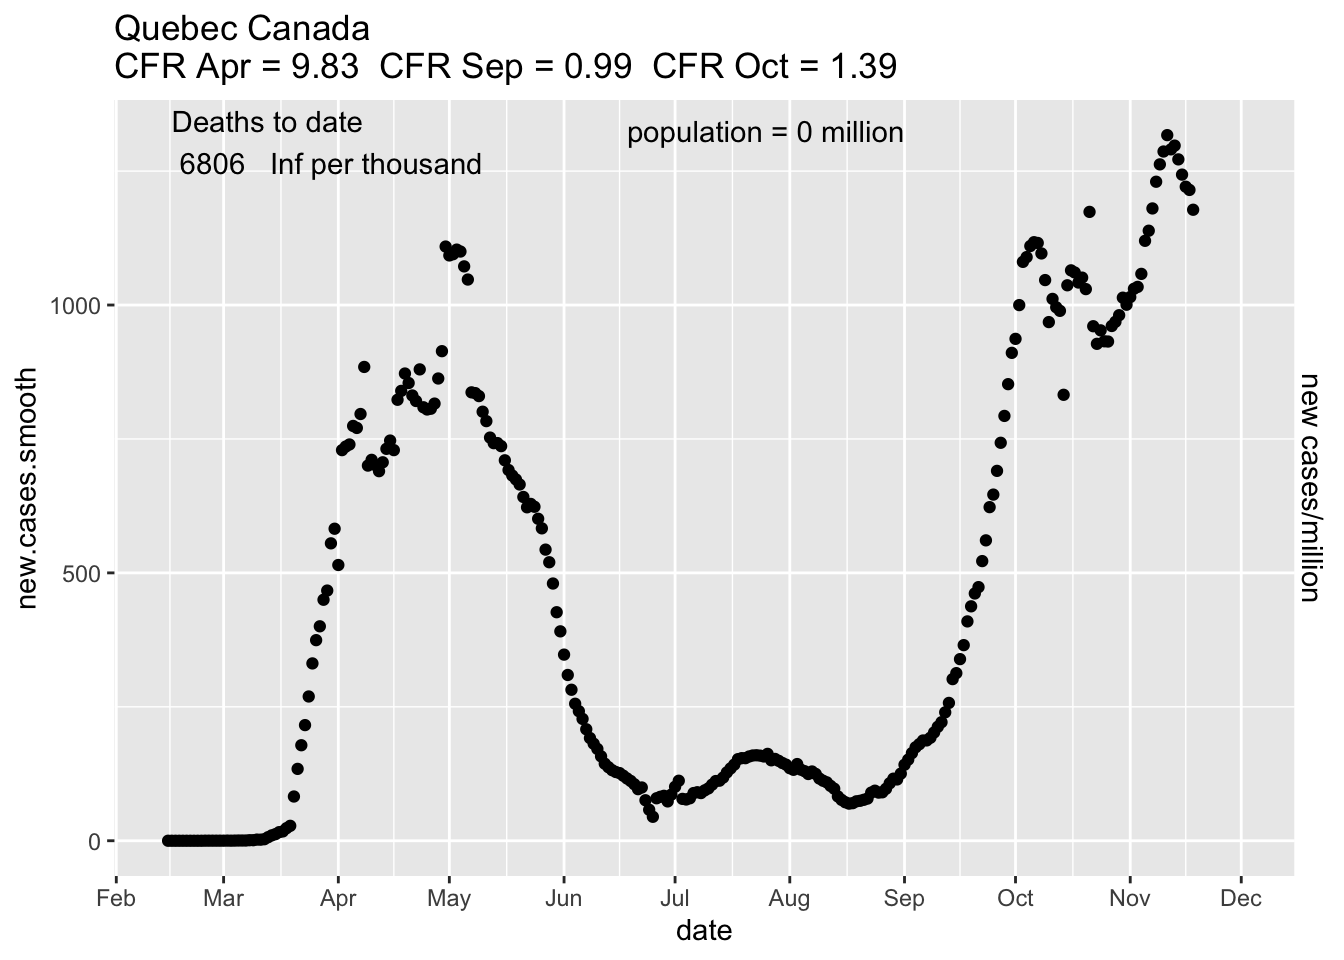
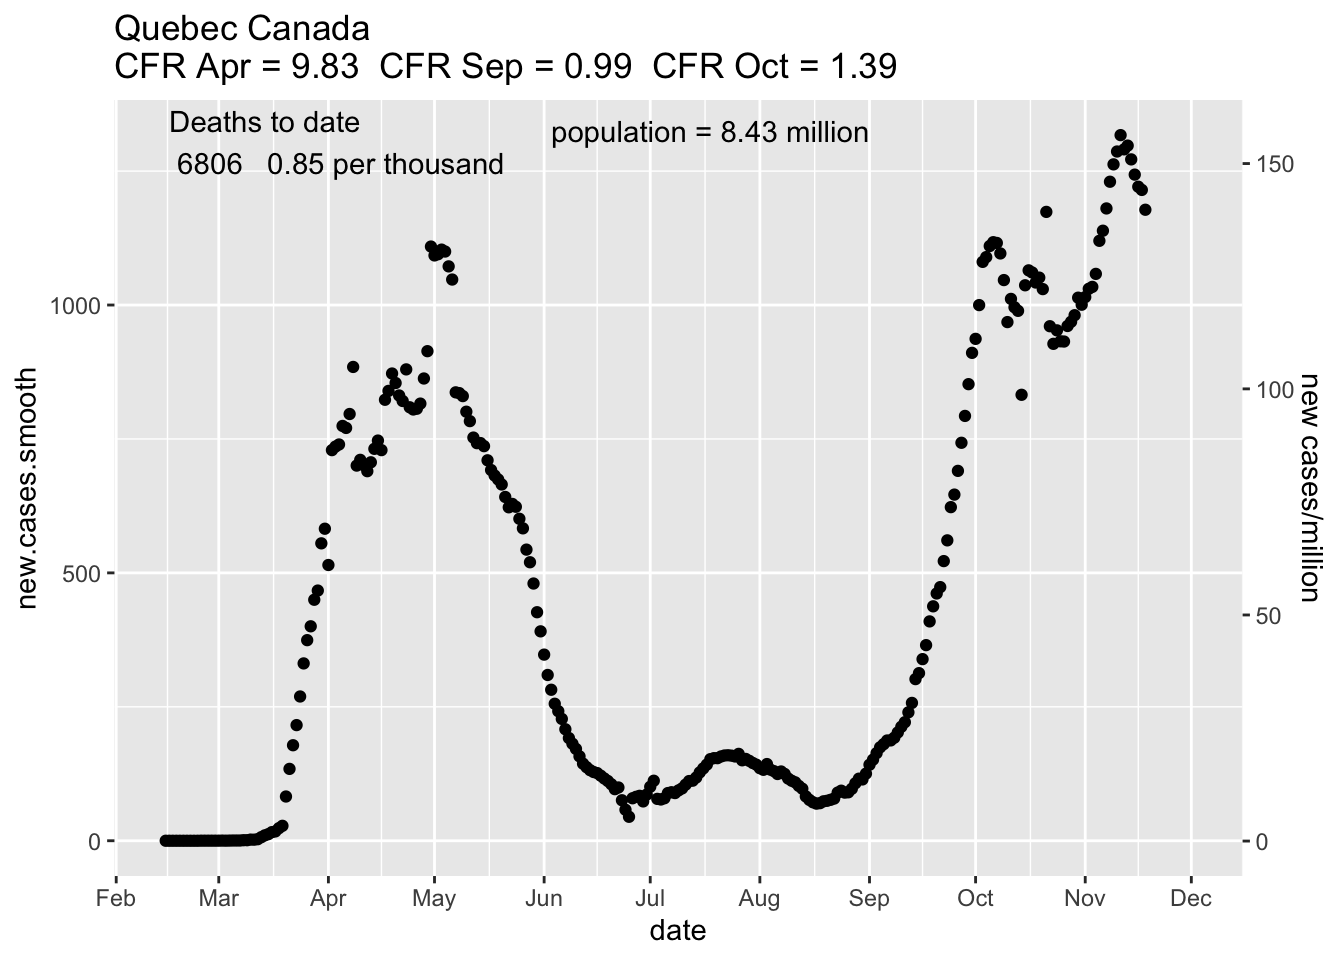
fix canada province pops

diff --git a/docs/data.html b/docs/data.html
@@ -338,20 +338,13 @@ italy
 world</code></pre>
 <p>Here is an example from <code>states</code>:</p>
 <pre class="r"><code>head(states)</code></pre>
-<pre><code>##             date region positive
-## 14572 2020-03-06     AK       NA
-## 14521 2020-03-07     AK       NA
-## 14470 2020-03-08     AK       NA
-## 14419 2020-03-09     AK       NA
-## 14368 2020-03-10     AK       NA
-## 14317 2020-03-11     AK       NA
-##       negative hospitalized death
-## 14572        8           NA     0
-## 14521       12           NA     0
-## 14470       14           NA     0
-## 14419       23            1     0
-## 14368       23            1     0
-## 14317       46            1     0
+<pre><code>##             date region positive negative hospitalized death
+## 14572 2020-03-06     AK       NA        8           NA     0
+## 14521 2020-03-07     AK       NA       12           NA     0
+## 14470 2020-03-08     AK       NA       14           NA     0
+## 14419 2020-03-09     AK       NA       23            1     0
+## 14368 2020-03-10     AK       NA       23            1     0
+## 14317 2020-03-11     AK       NA       46            1     0
 ##       total.tests
 ## 14572           8
 ## 14521          12

diff --git a/docs/Forecasts.html b/docs/Forecasts.html
@@ -326,7 +326,7 @@ $(document).ready(function () {
 
 
 <h1 class="title toc-ignore">Cases and Deaths</h1>
-<h4 class="date">Monday Nov 23, 2020 07:01:34 AM</h4>
+<h4 class="date">Monday Nov 23, 2020 07:18:47 AM</h4>
 
 </div>
 
